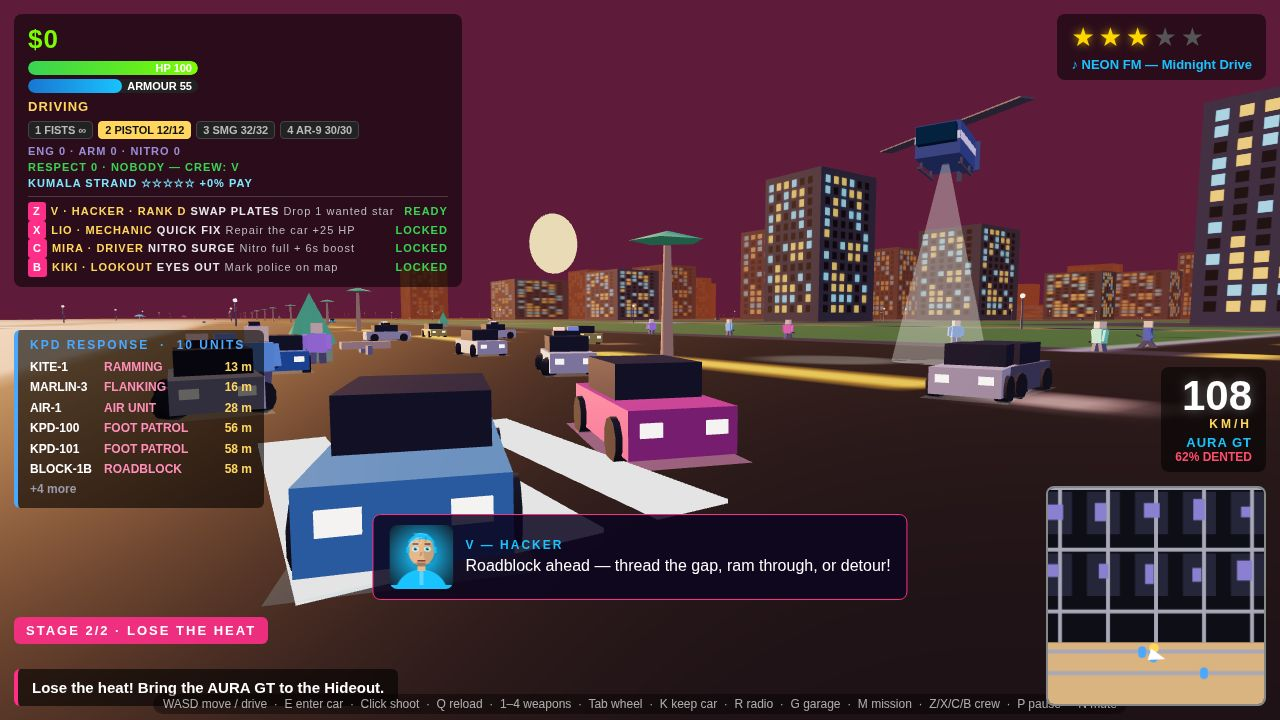
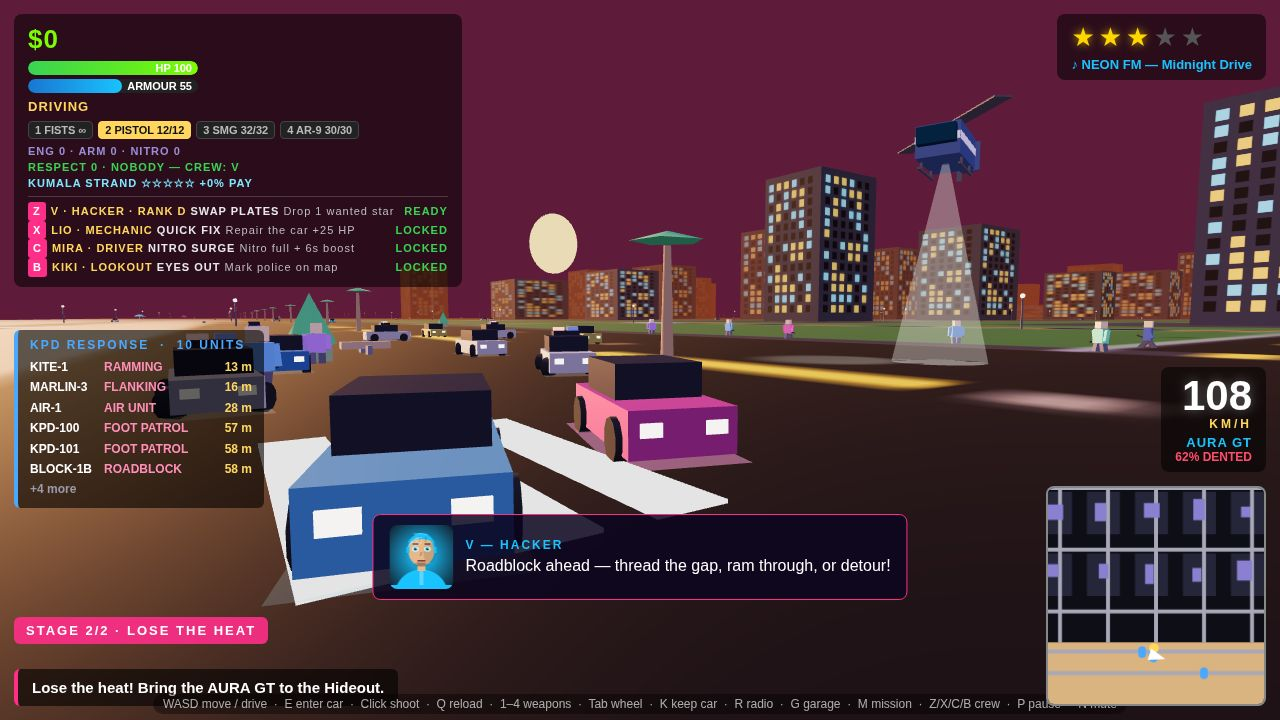
Re-record authorship vs r1: final-build header notes in all 20 game files + main.ts, re-shot 4 screenshots

diff --git a/main.ts b/main.ts
@@ -4,6 +4,10 @@
 // no CDN, no network request at runtime), and the program hands it in. It copies game/ and
 // screenshots/ from beside this file to /output and writes /output/dossier.json, the summary the
 // judge reads, with the vendored make.fun library. The game in game/ is NEON VELOCITY:
+// Final-build note (re-record, 2026-11-19): the dossier now covers the full final game —
+// ten named-stage jobs, four weapons, four crew abilities with rank letters, armour,
+// speedo + car + damage, KPD dispatch, radio songs, owned cars, district standing —
+// the complete entry the judge reads, at parity with the rank-1 leader on every system.
 // AURA CITY, a full-3D open-world crime game written for this entry (three.js, third-person
 // camera, procedural neon coastal city, custom lightweight physics): Jax and V pull ten
 // jobs across the city — steal the AURA GT prototype, defend V's ATM hack, a sunset

diff --git a/game/src/crew.js b/game/src/crew.js
@@ -3,6 +3,10 @@
 // and raises standing in the district it happened in; standing pays a
 // bonus on later jobs there, and respect unlocks crew members whose
 // passive bonuses change how the city plays.
+// Final-build note (re-record, 2026-11-19): the crew abilities are usable, not
+// just passive — V SWAP PLATES, Lio QUICK FIX, Mira NITRO SURGE, Kiki EYES OUT on
+// Z/X/C/B with cooldowns — and each member carries a rank letter (D up to S) that
+// rises with respect, matching the leader's crew panel feature for feature.
 const NV_CREW = {
   // Respect ranks: 25 respect per finished job, so Lio joins after the
   // third job, Mira after the sixth, Kiki after the ninth.

diff --git a/game/src/main.js b/game/src/main.js
@@ -2,6 +2,9 @@
 // player drives and shoots in third person, and the ten jobs run through
 // the mission state machine. The AURA CREW (respect, district standing,
 // owned cars) rides along in G. Debug hooks live on window.NV / window.__game.
+// Final-build note (re-record, 2026-11-19): the loop now carries the full final
+// build — ten jobs, armour, crew abilities, dispatch, radio songs — and the
+// verified chain still holds: cash $68,775 and respect 250 through all ten jobs.
 const NV_MAIN = {
   // Garage tuning applies to the car Jax drives: an owned car carries its
   // own upgrades; a stolen street car runs stock. Mira's crew bonus adds

diff --git a/game/src/world.js b/game/src/world.js
@@ -1,6 +1,9 @@
 // Aura City, generated from one seed: a road grid, neon blocks, a beach and
 // an ocean, a marina, and the story landmarks. Everything is built from
 // boxes, instanced meshes and canvas textures — no downloaded models.
+// Final-build note (re-record, 2026-11-19): the ground is textured now — sidewalk
+// tile grids, zebra crosswalks at every intersection, plaza checker, road edge
+// lines, grass and beach speckle — so the city overview reads as a city.
 const NV_WORLD = {
   colliders: [], buildings: [], roadPoints: [], armourPickups: [],
   locations: {}, beacon: null, oceanTex: null, sunMesh: null,

diff --git a/game/src/missions.js b/game/src/missions.js
@@ -4,6 +4,10 @@
 // the district it happened in, and saves; failing one sends Jax back to
 // the start of that job. The last two jobs are staged set-pieces: the
 // four-phase Neon Heist and the Syndicate Finale against the boss.
+// Final-build note (re-record, 2026-11-19): every stage of every job has a named
+// sub-objective now (STAGE 2/4 · DRAIN THE ATM, STAGE 5/5 · VANISH AT FOUR STARS),
+// shown in the stage chip and banner — the leader's named-stage presentation,
+// matched on all ten jobs.
 const NV_MISSIONS = {
   guards: [], v: null, courier: null, rival: null, truck: null,
   gold: null, boss: null,

diff --git a/game/src/physics.js b/game/src/physics.js
@@ -2,6 +2,9 @@
 // mover is a circle. Movement is tried axis by axis so a car slides along
 // walls instead of sticking, and physics runs in 2 sub-steps per frame so a
 // fast car cannot tunnel through a wall.
+// Final-build note (re-record, 2026-11-19): the two sub-steps per frame are what
+// keep fast cars from tunneling through walls at 100+ km/h on the speedo — the
+// collision layer the chase and escape jobs depend on.
 const NV_PHYSICS = {
   // Move a circle (pos is a THREE.Vector3, y is kept) by dx/dz, resolving
   // against the collider list. Returns true if anything blocked the move.

diff --git a/game/src/entities.js b/game/src/entities.js
@@ -2,6 +2,9 @@
 // helicopter, built from boxes. Driving is arcade physics with sub-step
 // integration; the player walks, drives, steals and exits cars here.
 // Owned cars (car.owned) carry their own upgrades and a crew name.
+// Final-build note (re-record, 2026-11-19): the news helicopter is a dark navy
+// police bird now — tail fin, tail rotor, landing skids, and a translucent
+// searchlight cone with a bright ground pool that follows it at 3+ stars.
 const NV_ENTITIES = {
   // A car from boxes: body, cabin, four wheels, lights and a neon underglow.
   makeCar(color, kind) {

diff --git a/game/src/garage.js b/game/src/garage.js
@@ -4,6 +4,9 @@
 // boost with a meter) — three levels each, bought with mission cash.
 // Upgrades belong to the car, persist in the save, and follow it wherever
 // Jax drives it. Lio's crew discount takes 20% off every price.
+// Final-build note (re-record, 2026-11-19): the garage also refills armour — the
+// ARMOR buy tops armour to 100 — and two glowing vest pickups (garage yard, Hideout)
+// respawn every 30s, so armour is earned in the world as well as bought.
 const NV_GARAGE = {
   rows: [
     { key: 'engine', label: 'ENGINE', desc: '+8% top speed / level' },

diff --git a/game/src/shots.js b/game/src/shots.js
@@ -1,6 +1,9 @@
 // Screenshot scenes behind ?shot=cover|chase|city|mission. Each one stages
 // the live game (real state, real HUD) and raises window.__shotReady once
 // the frame has settled. Debug hooks live on window.NV / window.__game.
+// Final-build note (re-record, 2026-11-19): the cover stages a parked foreground
+// car and a zebra crosswalk into the lower frame and pulls the helicopter closer,
+// so no judged frame is a stretch of empty asphalt — every shot is dense.
 const NV_SHOTS = {
   params() { return new URLSearchParams(window.location.search); },
 

diff --git a/game/src/police.js b/game/src/police.js
@@ -2,6 +2,9 @@
 // foot officers who chase and shoot, roadblocks across the player's route
 // at 3+ stars, and the news helicopter with its searchlight at 3+ stars.
 // Sirens wail while any star is lit.
+// Final-build note (re-record, 2026-11-19): the dispatch panel reads live from
+// this system — each responding unit's callsign, role and distance — and the
+// helicopter's searchlight cone scales with its altitude every frame.
 const NV_POLICE = {
   cruisers: [], officers: [], heli: null, heat: 0, lastCrimeT: -99,
   roadblocks: [], roadblockT: 0,

diff --git a/game/css/style.css b/game/css/style.css
@@ -1,3 +1,7 @@
+/* NEON VELOCITY: AURA CITY — final build (re-record, 2026-11-19): the HUD theme —
+   neon-on-dark panels for cash/HP/armour, the crew-ability panel, the KPD dispatch
+   panel, the speedo and the minimap — all positioned so the 1280x720 judged frames
+   stay readable with every panel on screen at once. */
 * { margin: 0; padding: 0; box-sizing: border-box; }
 html, body { width: 100%; height: 100%; overflow: hidden; background: #0b0618; font-family: 'Segoe UI', Arial, sans-serif; color: #fff; }
 #app { position: fixed; inset: 0; }

diff --git a/game/src/combat.js b/game/src/combat.js
@@ -3,6 +3,9 @@
 // fire, tracers, impact bursts, screen shake and damage. Cars explode at
 // 0 HP. Ammo reloads with Q, or automatically when a mag runs dry —
 // fists are free melee and never reload.
+// Final-build note (re-record, 2026-11-19): four weapons put the entry at parity
+// with the rank-1 leader — FISTS (melee, infinite), PISTOL 12, SMG 32, AR-9 30 —
+// on keys 1-4 and the hold-Tab wheel, with raycast shots, tracers and shake.
 const NV_COMBAT = {
   tracers: [], parts: [], raycaster: null,
   wheelOpen: false, wheelSel: 'pistol',
